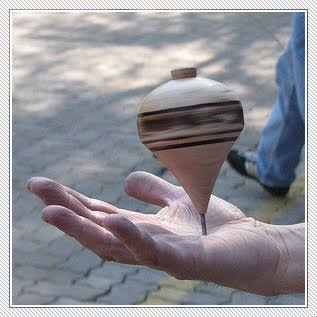
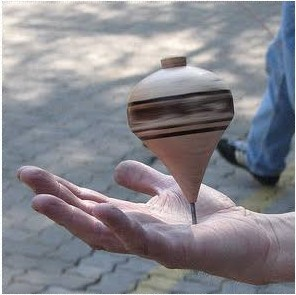
Implementacion de actividades y comienzo de cronograma

diff --git a/index.html b/index.html
@@ -66,7 +66,7 @@
                         <center>
                             <h1>Bievenido a La Fonda UCN</h1>
                             <h4 class="py-3">En este mes de la chilenidad nos sentimos gustosos de invitarte a ti y a tu familia a nuestra fonda para celebrar este 16, 17, 18 y 19 de septiembre</h4>
-                            <a class="btn btn-outline-light btn-lg" href="#Presentacion" role="button">Ver info</a>
+                            <a class="btn btn-outline-light btn-lg me-1" href="#Presentacion" role="button">Ver info</a>
                             <a class="btn btn-outline-light btn-lg" href="#Actividades" role="button">Actividades</a>
                         </center>
 
@@ -101,7 +101,7 @@
                     <div class="col-12 p-3 col p-3 border border-white bg-black bg-opacity-50 rounded">
                         <h3>Valores</h3>
                         <ul class="list-unstyled">
-                            <li><strong>$5000</strong> público general</li>
+                            <li><strong>$5000</strong> Público general</li>
                             <li><strong>$2500</strong> Niños y Adultos Mayores</li>
                             <li>
                                 <a href="https://instagram.com/FondaUCN"><img class="user-select-none" src="imgs/instagram_icon.webp" alt="instagram icon" width="50"></a>
@@ -118,16 +118,66 @@
         </section>
 
         <section id="Actividades" class="py-5">
-            <div class="card" style="width: 18rem;">
-                <img src="/imgs/cueca.jpg" class="card-img-top">
-                <div class="card-body">
-                    <h5 class="card-title">Torneo de cueca</h5>
-                    <p class="card-text">Some quick example text to build on the card title and make up the bulk of the card’s content.</p>
-                    <a href="#" class="btn btn-primary">Go somewhere</a>
+            <center><h1 class="py-3">Actividades del Evento</h1></center>
+            <div class="container">
+                <div class="row row-cols-1 row-cols-md-3 g-4 justify-content-center">
+                    <div class="col d-flex justify-content-center">
+                        <div class="card bg-danger bg-opacity-50 text-center border-danger" style="width: 18rem;">
+                            <img src="imgs/cueca.jpg" class="card-img-top" alt="Torneo de Cueca">
+                            <div class="card-body text-light">
+                                <h5 class="card-title">Torneo de Cueca</h5>
+                                <p class="card-text text-light">Una demostración de destreza en competencia con otros participantes para elegir al ganador de una noche inolvidable en las termas de socos.</p>
+                                <a href="#footer" class="btn btn-outline-light">Quiero participar</a>
+                            </div>
+                        </div>
+                    </div>
+
+                    <div class="col d-flex justify-content-center">
+                        <div class="card bg-danger bg-opacity-50 text-center border-danger" style="width: 18rem;">
+                            <img src="imgs/trompo.jpg" class="card-img-top" alt="Torneo de Cueca">
+                            <div class="card-body text-light">
+                                <h5 class="card-title">Competencia de Trompo</h5>
+                                <p class="card-text text-light">Compite a ver quien dura mas girando con el trompo el ganador se lleva un set completo de tiro al blanco.</p>
+                                <a href="#footer" class="btn btn-outline-light">Quiero participar</a>
+                            </div>
+                        </div>
+                    </div>
+                    <div class="col d-flex justify-content-center">
+                        <div class="card bg-danger bg-opacity-50 text-center border-danger" style="width: 18rem;">
+                            <img src="imgs/carrerasacos.jpg" class="card-img-top" alt="Torneo de Cueca">
+                            <div class="card-body text-light">
+                                <h5 class="card-title">Carrera de Sacos</h5>
+                                <p class="card-text text-light">Como todos los años empezamos con una carrera a todo vapor para ver quien llega primero y se lleva nuestro premio de la copa de carne la cual le da al que la tenga buffet gratis hasta que se llene o explote 😈.</p>
+                                <a href="#footer" class="btn btn-outline-light">Quiero participar</a>
+                            </div>
+                        </div>
+                    </div>
+                    <div class="col d-flex justify-content-center">
+                        <div class="card bg-danger bg-opacity-50 text-center border-danger" style="width: 18rem;">
+                            <img src="imgs/asado.jpg" class="card-img-top" alt="Torneo de Cueca">
+                            <div class="card-body text-light">
+                                <h5 class="card-title">Asado para toda la familia</h5>
+                                <p class="card-text text-light">Aunque no sea una competencia esta actividad nos une como familia y como chilenos disfrutar de un buen asado acompañado de tus seres queridos, sientete chileno y goza la estancia .</p>
+                            </div>
+                        </div>
+                    </div>
                 </div>
             </div>
-
         </section>
+
+        <section id="Cronograma" class="py-5">
+            <center><h1>Cronograma del Evento</h1></center>
+            <table class="table table-hover">
+                <thead>
+                    <tr>
+                        <th scope="col">Horario</th>
+                    </tr>
+                </thead>
+
+            </table>
+            
+        </section>
+
 
 
     </body>
